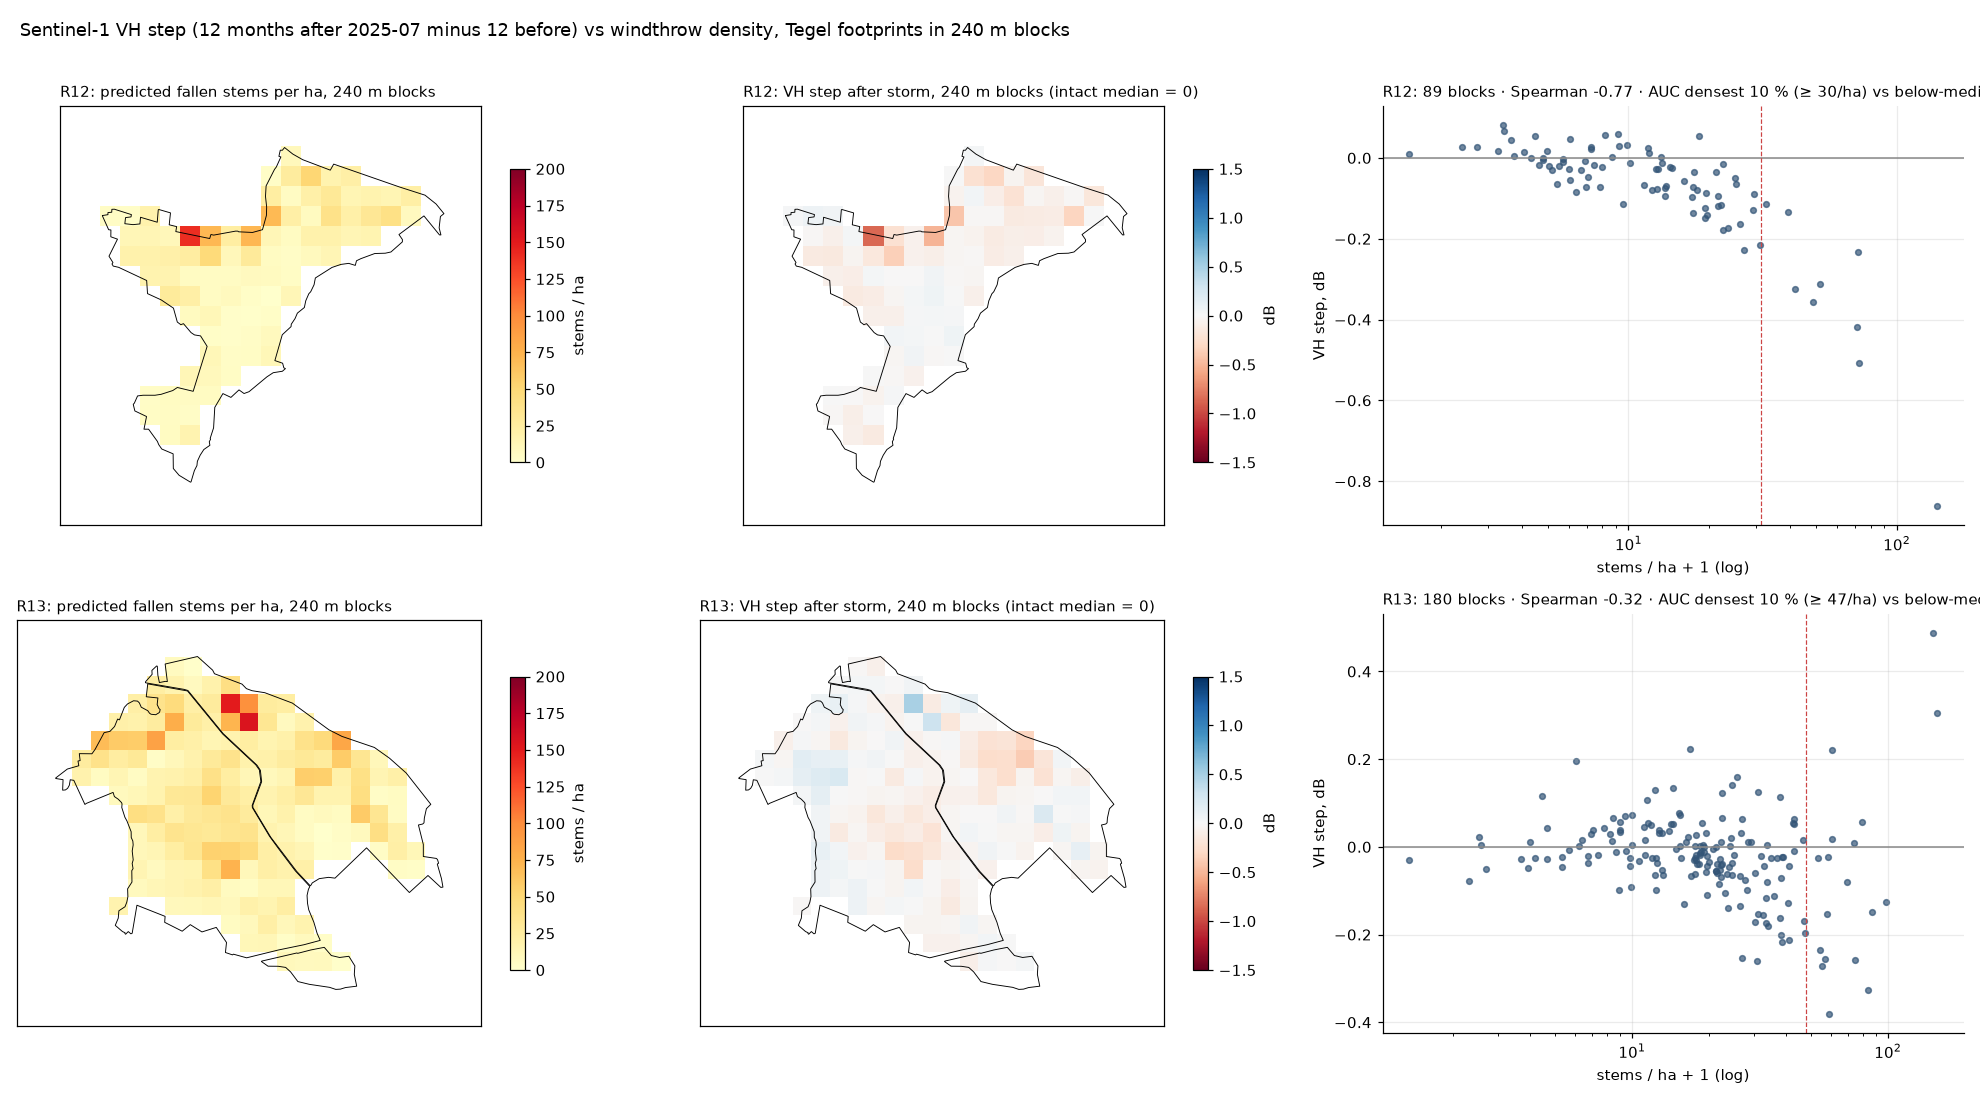
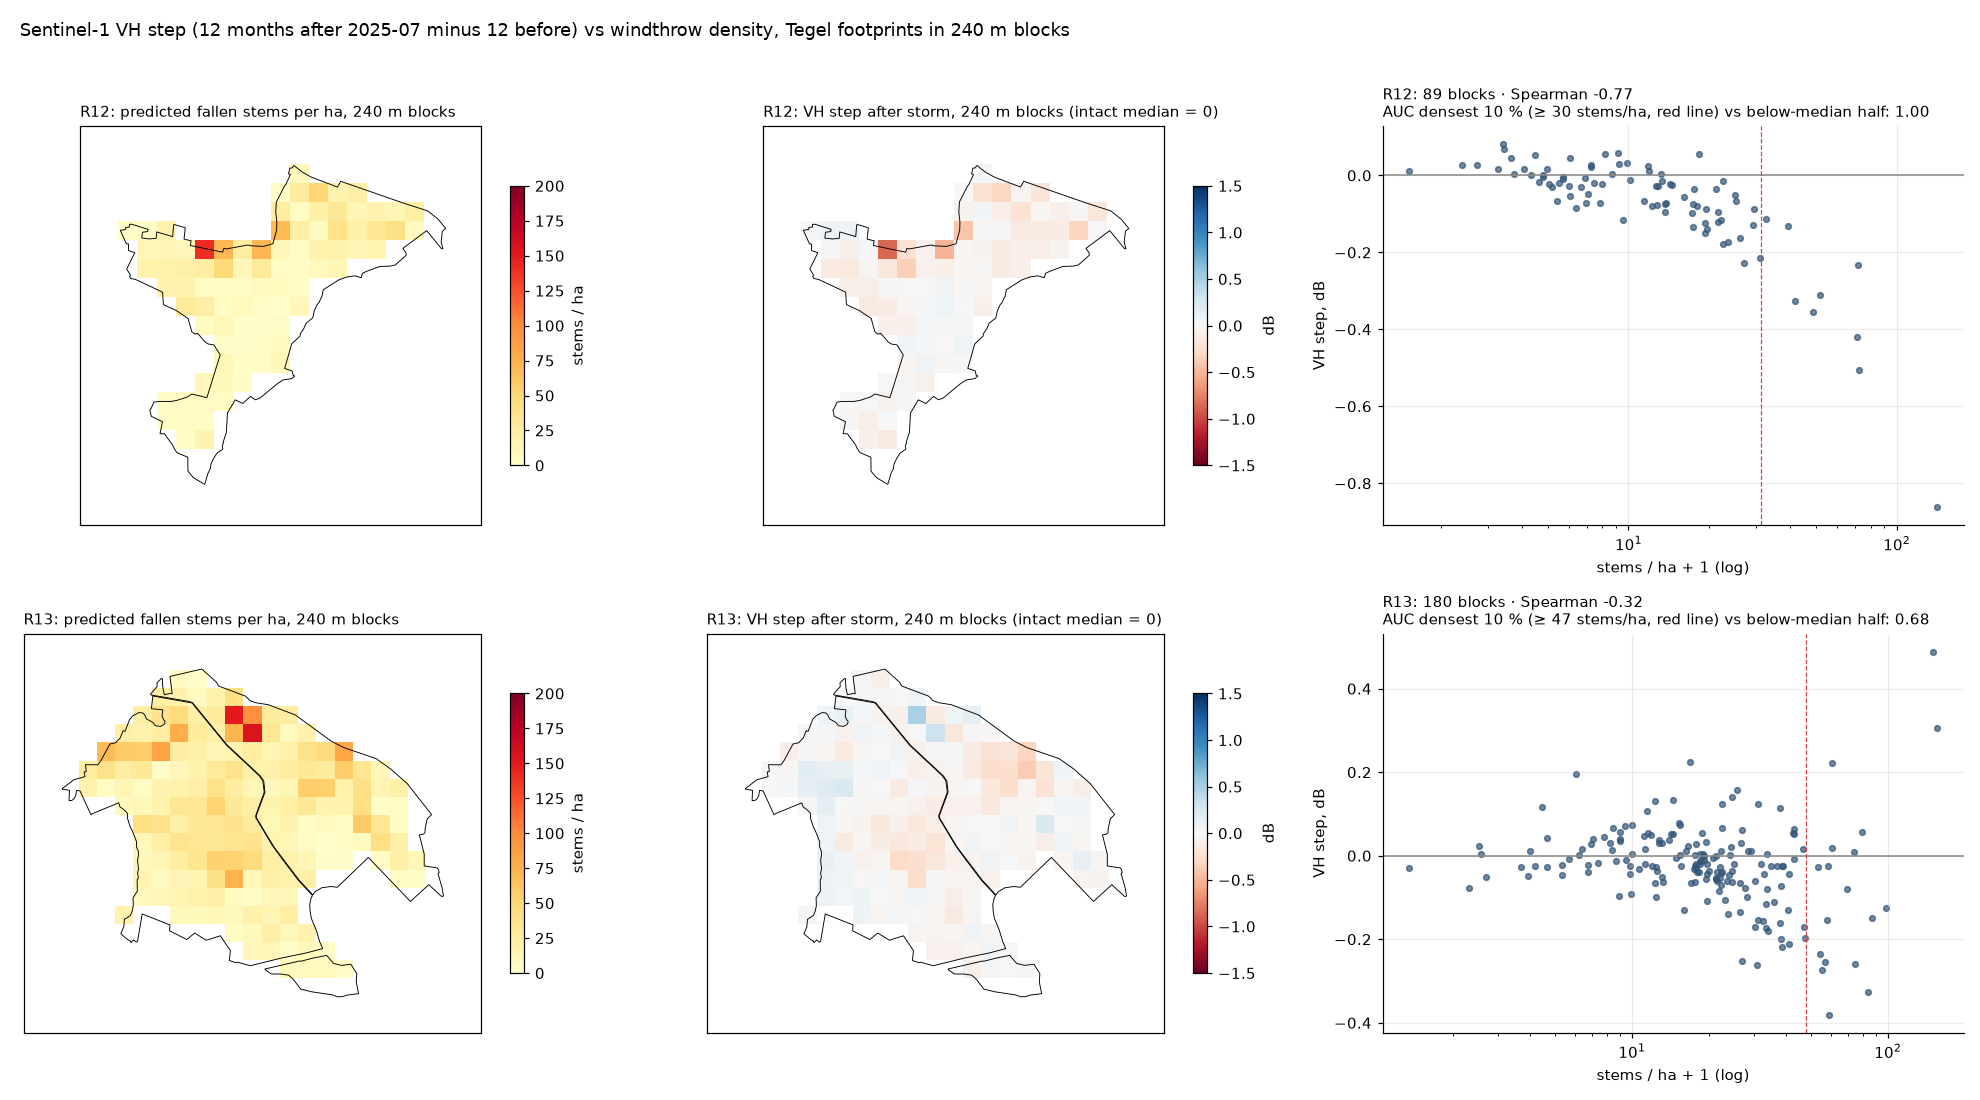
sar_block_scale: wrap the scatter titles
Claude-Session: https://claude.ai/code/session_01PdaJ9MQdhK573JBtm3m8xb

diff --git a/scripts/sar_block_scale.py b/scripts/sar_block_scale.py
@@ -94,7 +94,7 @@ def main(out_png, out_csv):
         ax.scatter(r["stems_ha"][ok] + 1, r["step"][ok], s=14, color="#357", alpha=0.7); ax.set_xscale("log"); ax.axhline(0, color="#888", lw=1)
         ax.axvline(r["dense_cut"] + 1, color="#c44", lw=0.8, ls="--")
         ax.set_xlabel("stems / ha + 1 (log)"); ax.set_ylabel("VH step, dB"); ax.grid(alpha=0.25)
-        ax.set_title(f"{site}: {r['n']} blocks · Spearman {r['spearman']:+.2f} · AUC densest 10 % (≥ {r['dense_cut']:.0f}/ha) vs below-median {r['auc']:.2f}", loc="left", fontsize=10)
+        ax.set_title(f"{site}: {r['n']} blocks · Spearman {r['spearman']:+.2f}\nAUC densest 10 % (≥ {r['dense_cut']:.0f} stems/ha, red line) vs below-median half: {r['auc']:.2f}", loc="left", fontsize=9.5)
         for sp in ("top", "right"): ax.spines[sp].set_visible(False)
     fig.suptitle("Sentinel-1 VH step (12 months after 2025-07 minus 12 before) vs windthrow density, Tegel footprints in 240 m blocks", x=0.01, ha="left", fontsize=12)
     fig.tight_layout(rect=(0, 0, 1, 0.97)); fig.savefig(out_png, dpi=110); print("wrote", out_png)
